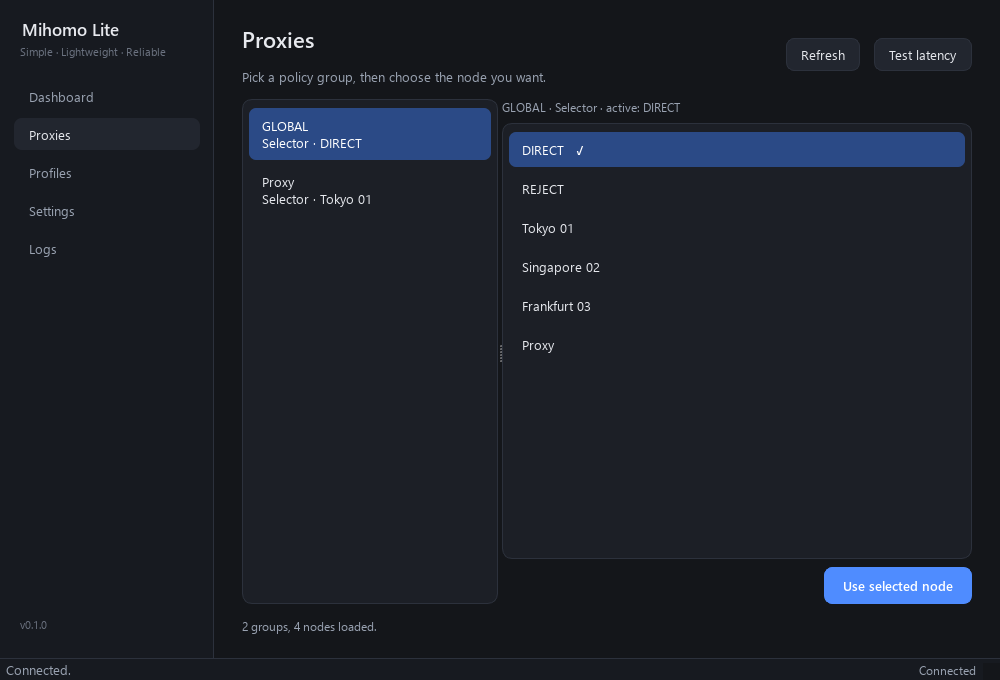
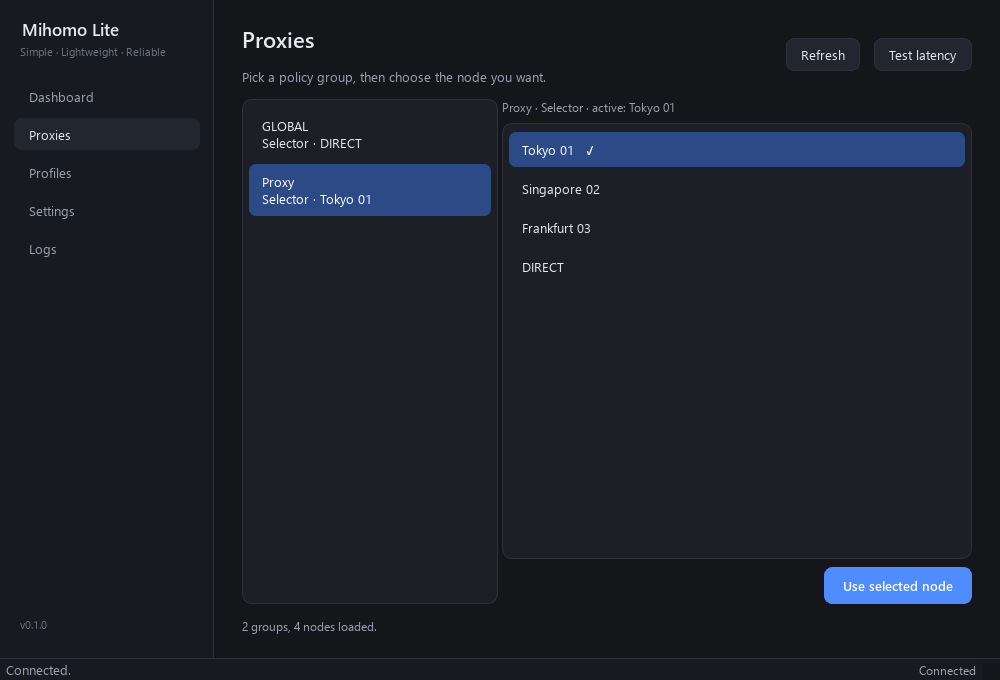
Polish UI defaults, add selftest, tighten websockets range and docs

diff --git a/tools/smoke/probe_widget2.py b/tools/smoke/probe_widget2.py
@@ -1,0 +1,27 @@
+import os, sys
+os.environ["QT_QPA_PLATFORM"] = "offscreen"
+os.environ.setdefault("QT_QPA_FONTDIR", "C:/Windows/Fonts")
+sys.path.insert(0, "src")
+
+from PySide6.QtWidgets import QApplication, QSplitter, QListWidget, QWidget, QVBoxLayout
+
+app = QApplication([])
+
+def render(extra_qss: str, filename: str) -> tuple:
+    w = QWidget(); layout = QVBoxLayout(w)
+    sp = QSplitter(); sp.setChildrenCollapsible(False)
+    left = QListWidget(); left.addItems(["a", "b"])
+    right = QListWidget(); right.addItems(["x"])
+    sp.addWidget(left); sp.addWidget(right)
+    layout.addWidget(sp)
+    w.resize(800, 500); w.show(); app.processEvents()
+    if extra_qss:
+        sp.setStyleSheet(extra_qss)
+        app.processEvents()
+    img = w.grab().toImage()
+    w.close()
+    return img.pixelColor(400, 250).name(), img.pixelColor(400, 100).name()
+
+print("no qss:", render("", "a.png"))
+print("transparent:", render("QSplitter::handle { background: transparent; }", "b.png"))
+print("solid:", render("QSplitter::handle { background-color: #14161a; border: none; }", "c.png"))

diff --git a/tools/smoke/probe_widget.py b/tools/smoke/probe_widget.py
@@ -1,0 +1,23 @@
+import os, sys
+os.environ["QT_QPA_PLATFORM"] = "offscreen"
+os.environ.setdefault("QT_QPA_FONTDIR", "C:/Windows/Fonts")
+sys.path.insert(0, "src")
+
+from PySide6.QtWidgets import QApplication
+
+app = QApplication([])
+app.setStyleSheet(open("src/mihomo_lite/resources/styles/dark.qss", encoding="utf-8").read())
+
+from PySide6.QtWidgets import QSplitter, QListWidget, QWidget, QVBoxLayout, QLabel
+w = QWidget(); layout = QVBoxLayout(w)
+sp = QSplitter(); sp.setChildrenCollapsible(False)
+left = QListWidget(); left.addItems(["a", "b"])
+right = QListWidget(); right.addItems(["x"])
+sp.addWidget(left); sp.addWidget(right)
+layout.addWidget(sp)
+w.resize(800, 500); w.show(); app.processEvents()
+for point in ((400, 250), (399, 250), (401, 250), (482, 250)):
+    child = w.childAt(*point)
+    print(point, type(child).__name__ if child else None, getattr(child, "objectName", lambda: "")())
+print("splitter handle width:", sp.handleWidth())
+print("left list scrollbar visible:", left.verticalScrollBar().isVisible())

diff --git a/src/mihomo_lite/ui/proxy_page.py b/src/mihomo_lite/ui/proxy_page.py
@@ -107,8 +107,18 @@ class ProxyPage(QWidget):
             self._group_list.addItem(item)
         self._group_list.blockSignals(False)
         if self._groups:
-            self._group_list.setCurrentRow(0)
+            self._group_list.setCurrentRow(self._preferred_group_row())
         self._status.setText(f"{len(self._groups)} groups, {len(self._nodes)} nodes loaded.")
+
+    def _preferred_group_row(self) -> int:
+        """GLOBAL is rarely what a user wants; prefer the first real selector."""
+        for index, group in enumerate(self._groups):
+            if group.name != "GLOBAL" and group.is_selector:
+                return index
+        for index, group in enumerate(self._groups):
+            if group.name != "GLOBAL":
+                return index
+        return 0
 
     def _current_group(self) -> ProxyGroup | None:
         item = self._group_list.currentItem()
